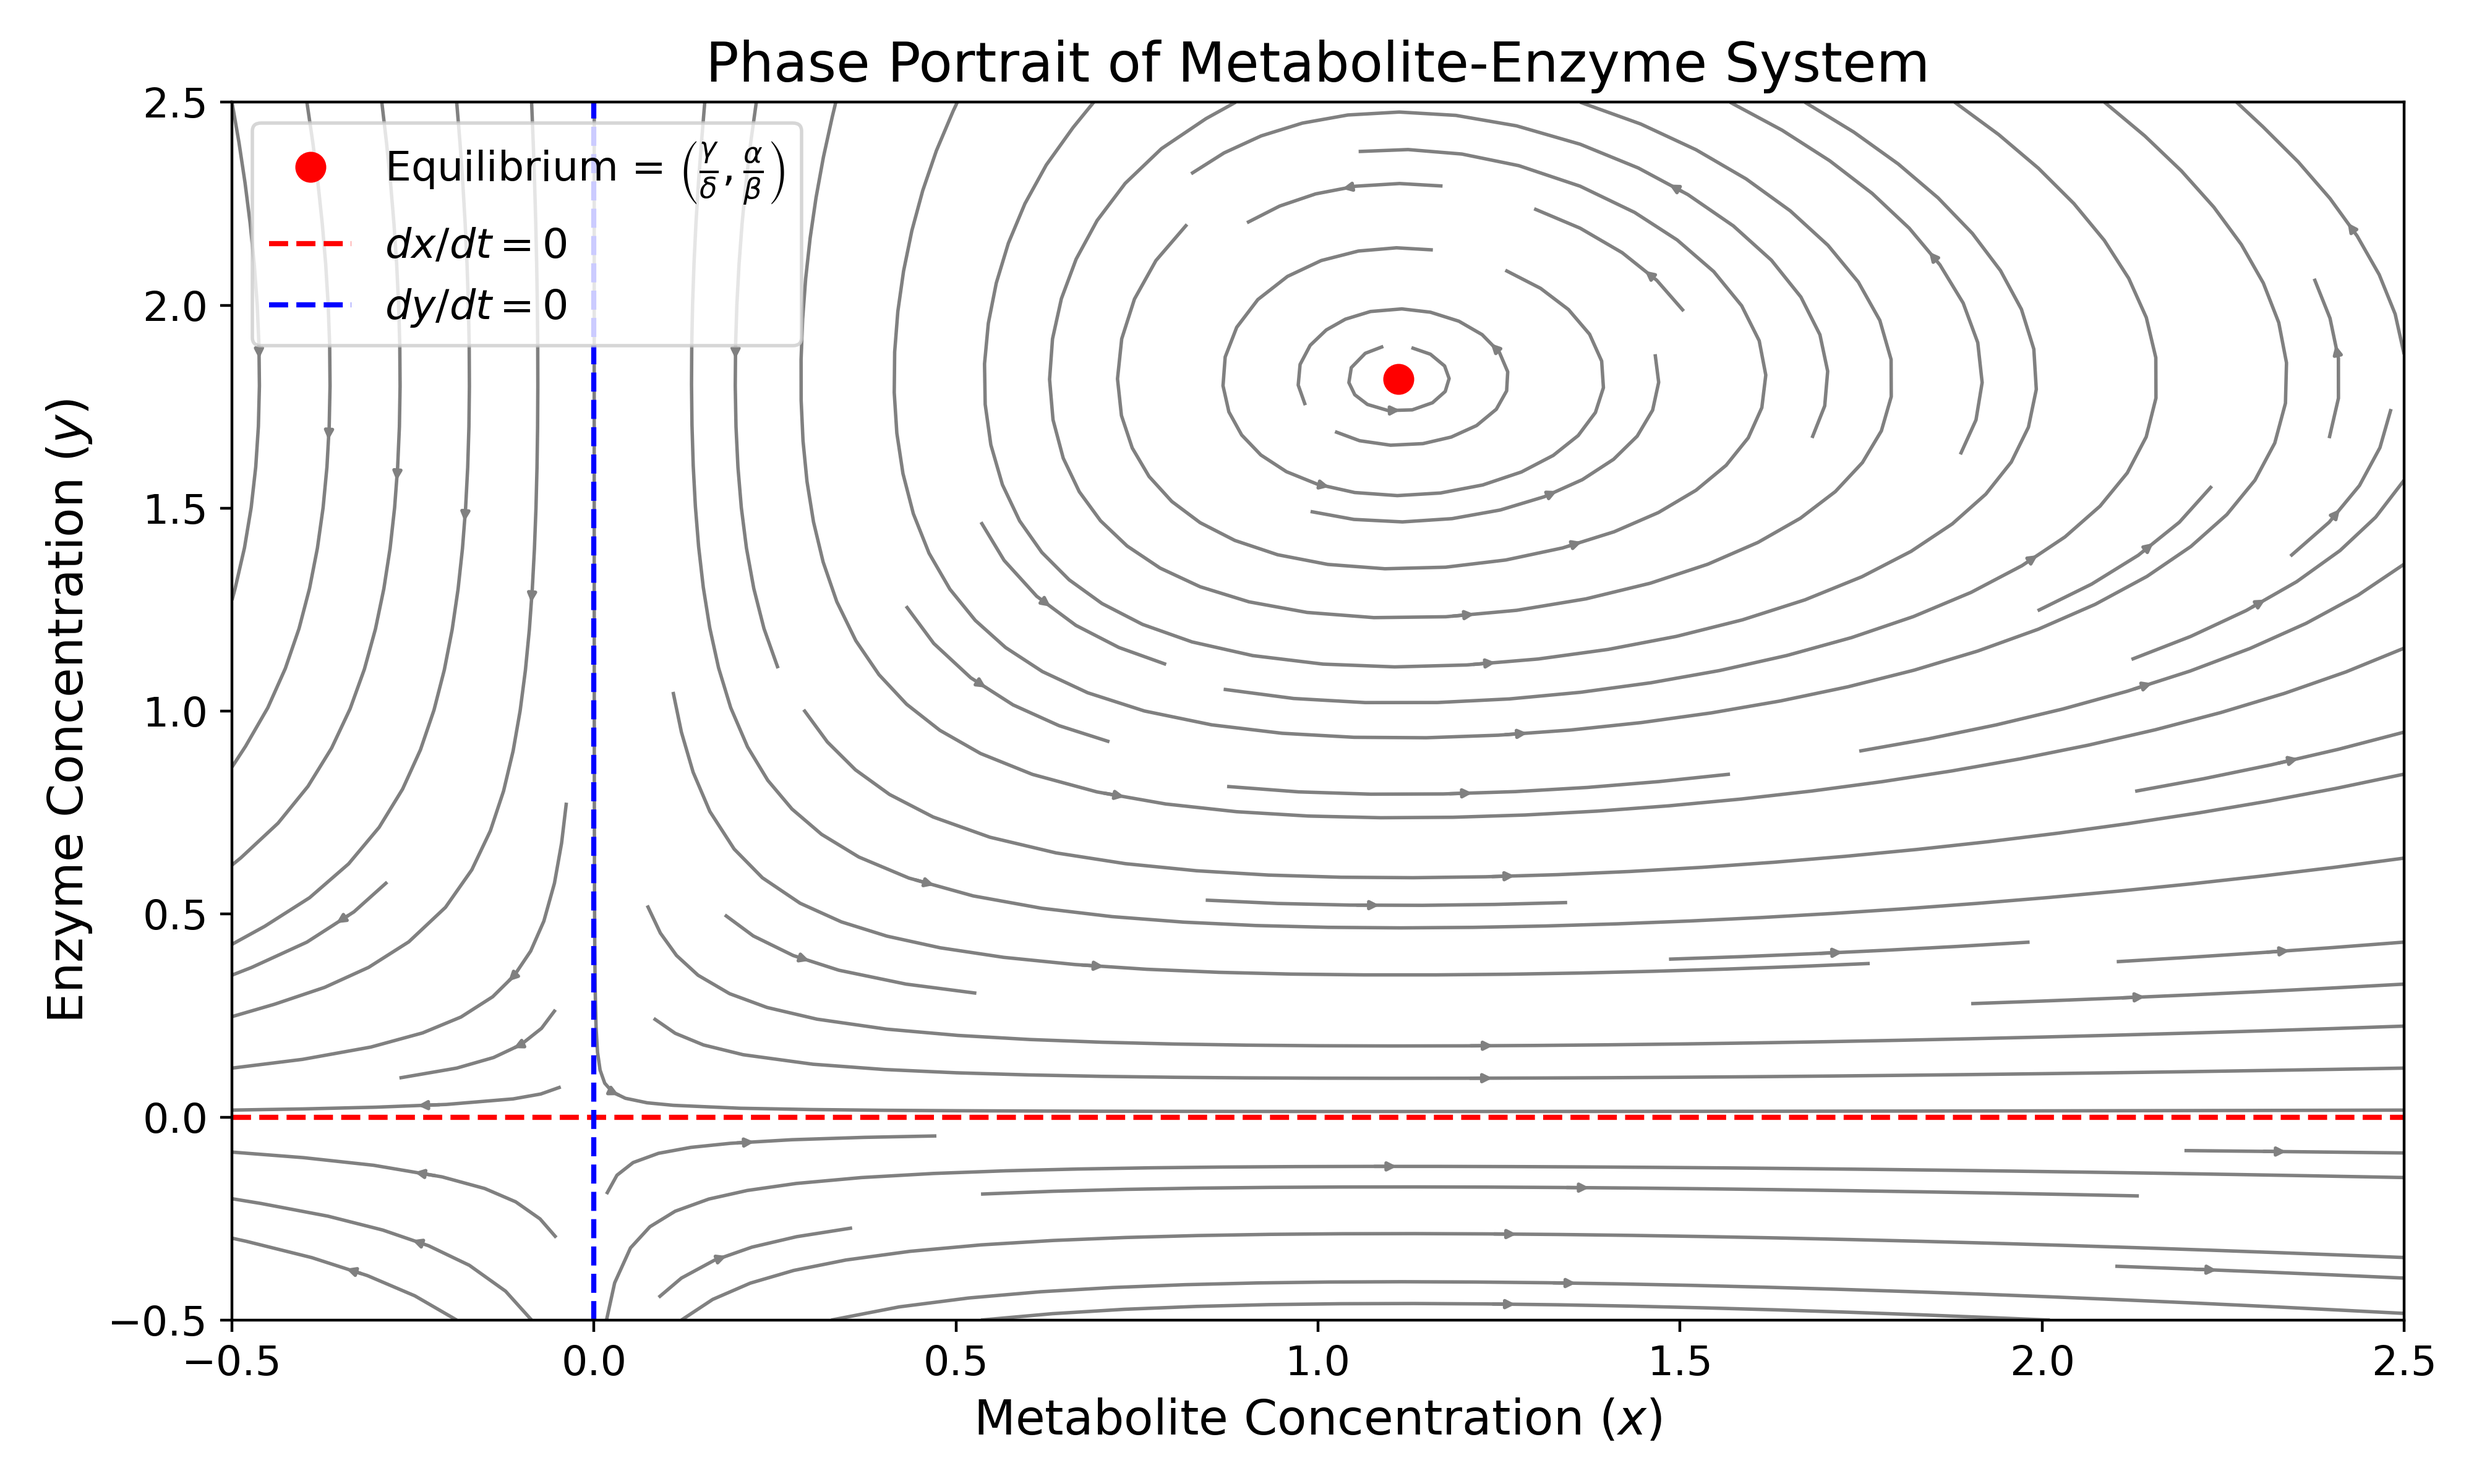
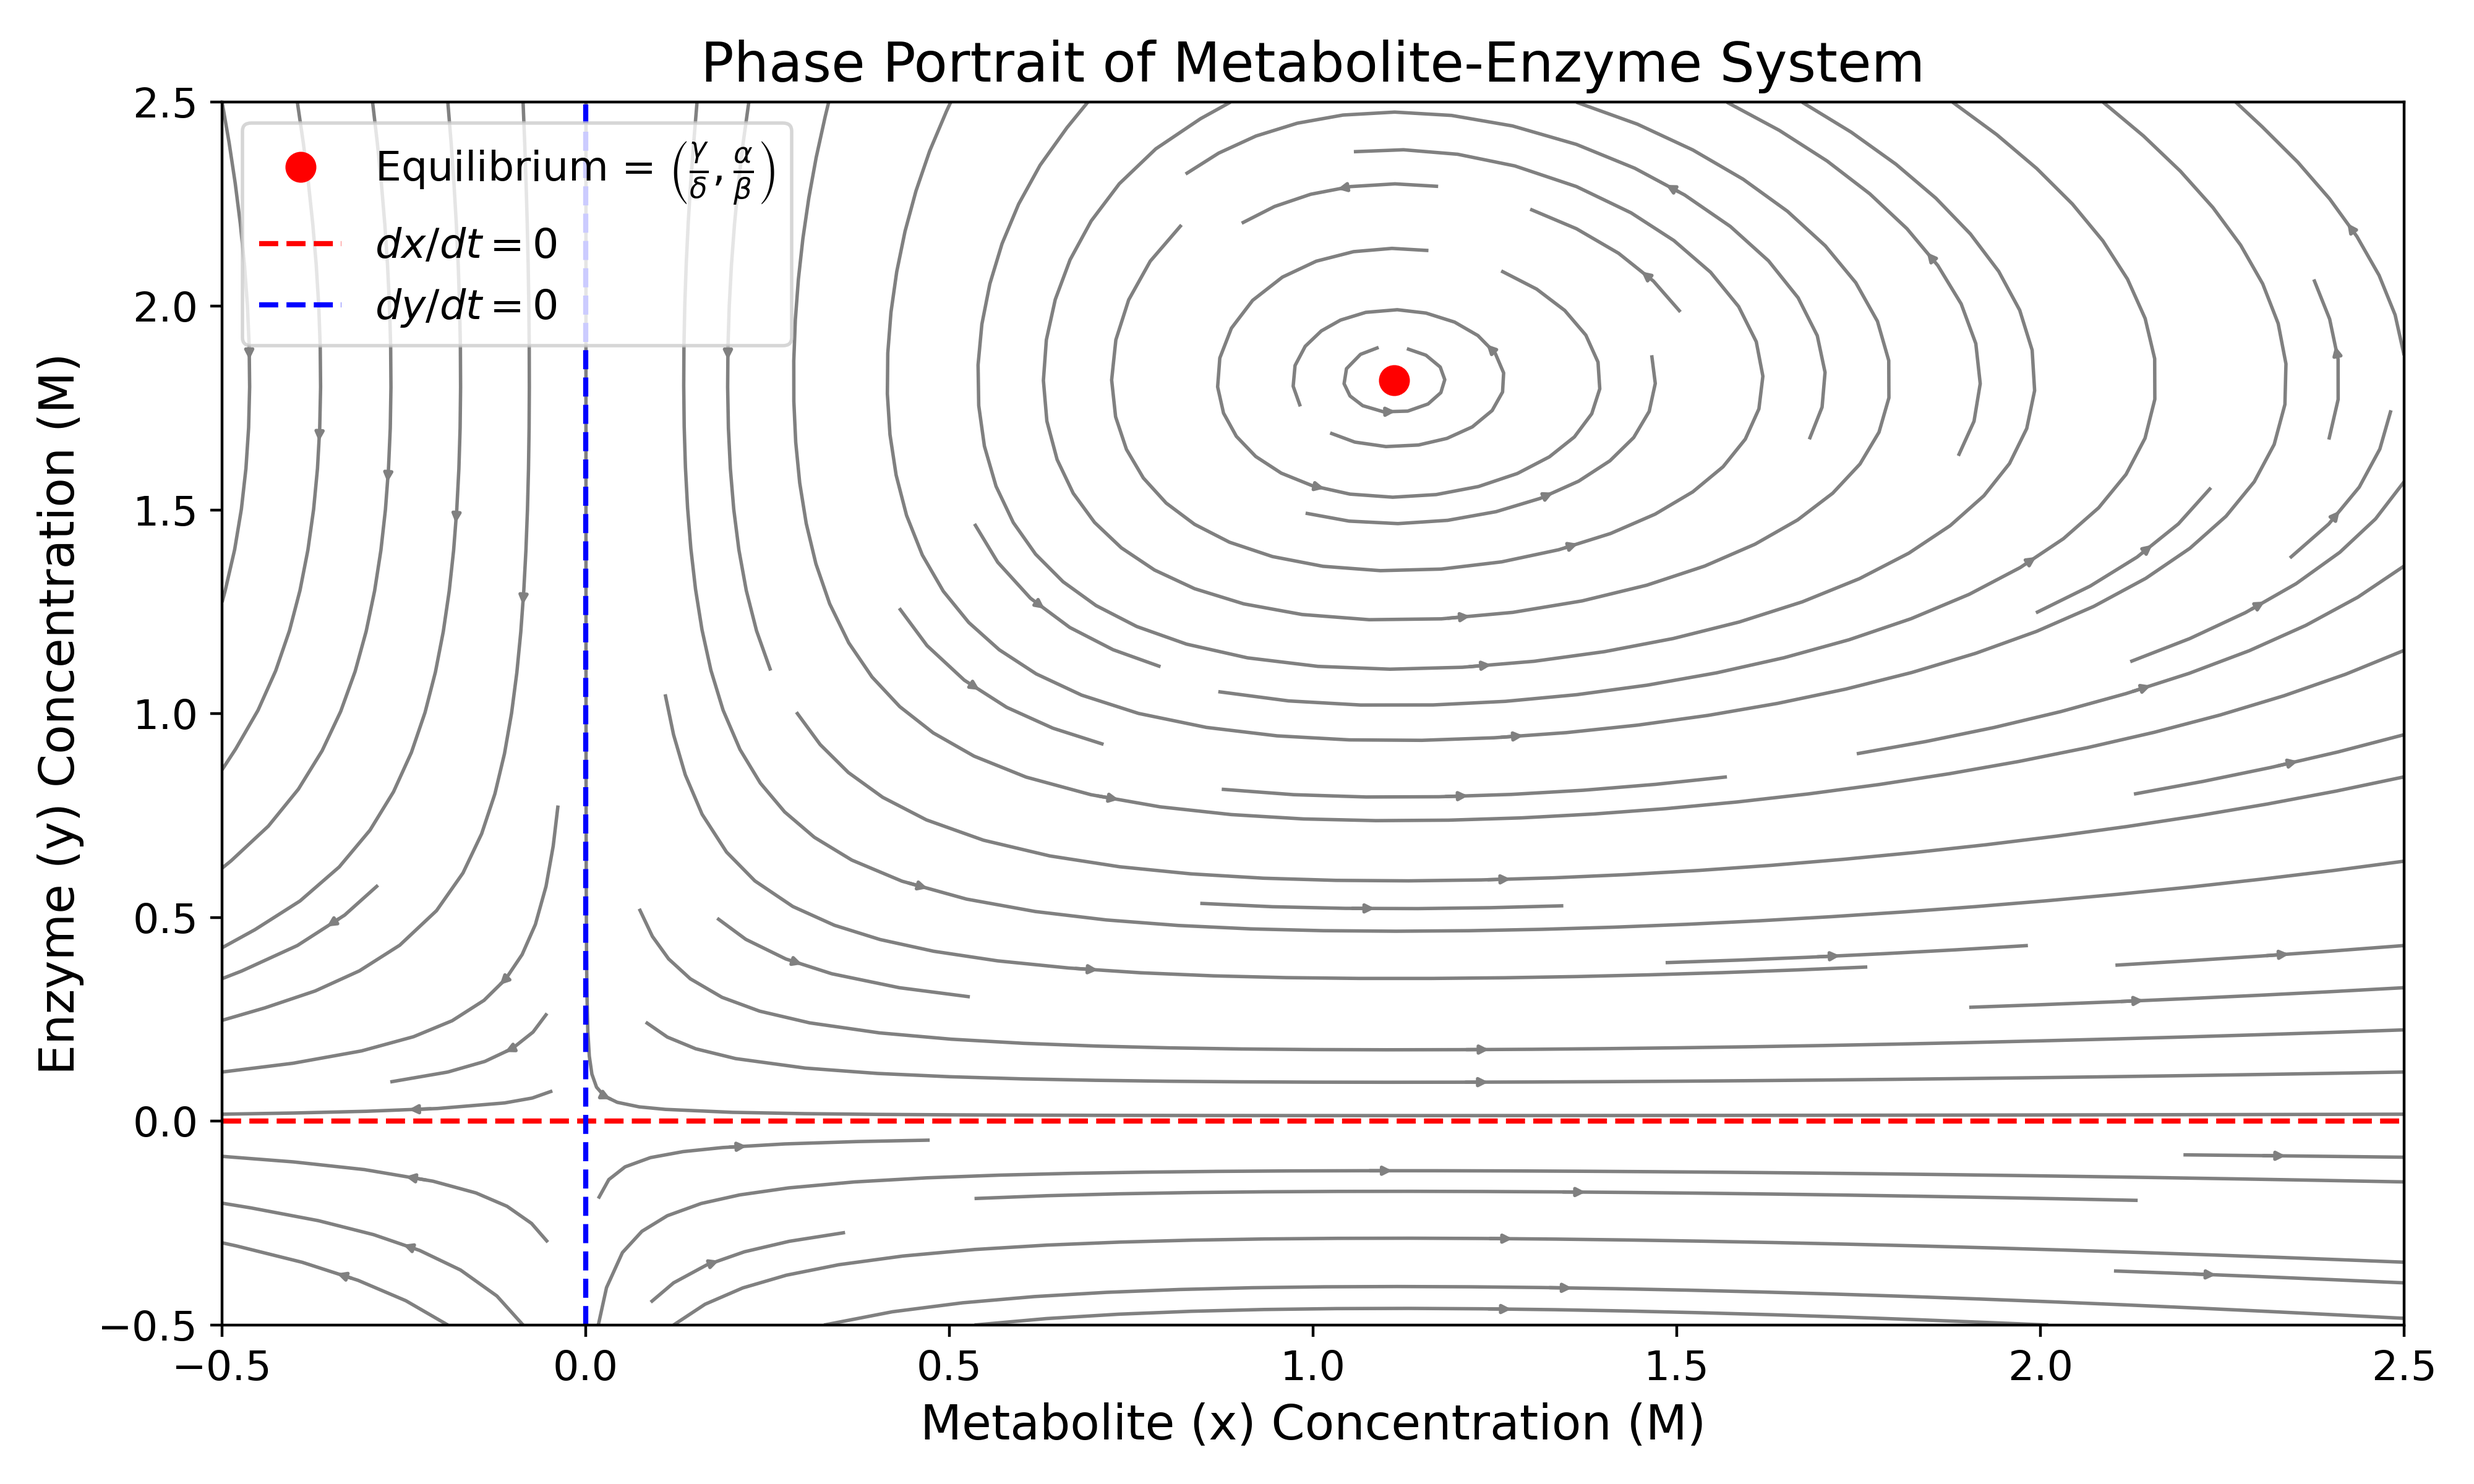
merge code files

diff --git a/assignment_2.py b/assignment_2.py
@@ -6,7 +6,8 @@ import os
 
 ######## Setup Plotting Sytle ############
 FIG_DPI = 400
-FIG_SIZE = (10, 6)
+STRD_FIG_SIZE = (10, 6)
+SQ_FIG_SIZE = (9, 9)
 
 plt.rcParams["axes.titlesize"] = 16
 plt.rcParams["axes.labelsize"] = 14
@@ -15,96 +16,101 @@ plt.rcParams["ytick.labelsize"] = 12
 plt.rcParams["legend.fontsize"] = 12
 ##########################################
 
-
-def metabolite_model(x: np.ndarray, y: np.ndarray, alpha: float, beta: float) -> np.ndarray:
+def hill_function(x: float, theta: float, n: int) -> float:
     """
-    Metabolite model function.
+    Hill function for gene regulation.
 
     Params
     ----------
-    - x (ndarray): Metabolite concentration.
-    - y (ndarray): Enzyme concentration.
-    - alpha (float): Parameter for metabolite production.
-    - beta (float): Parameter for metabolite consumption.
+    - x (float): Concentration of the molecule.
+    - theta (float): Threshold concentration.
+    - n (int): Hill coefficient.
 
     Returns
     ----------
-    - metabolite (ndarray): Rate of change of metabolite concentration.
+    - float: Value of the Hill function.
     """
-    metabolite = alpha * x - beta * x * y
-    return metabolite
+    return (x ** n) / (theta ** n + x ** n)
 
-
-def enzyme_model(x: np.ndarray, y: np.ndarray, gamma: float, delta: float) -> np.ndarray:
+def gene_regulation_ode(t: float, pop: np.ndarray, params: list) -> list:
     """
-    Enzyme model function.
-
-    Params
-    ----------
-    - x (ndarray): Metabolite concentration.
-    - y (ndarray): Enzyme concentration.
-    - gamma (float): Parameter for enzyme production.
-    - delta (float): Parameter for enzyme consumption.
-
-    Returns
-    ----------
-    - enzyme (ndarray): Rate of change of enzyme concentration.
-    """
-    enzyme = -gamma * y + delta * x * y
-    return enzyme
-
-
-def ode_model(t: float, pop: tuple, alpha: float, beta: float, gamma: float, delta: float) -> list:
-    """
-    ODE model function.
+    ODE system for gene regulation.
 
     Params
     ----------
     - t (float): Time variable.
-    - pop (tuple): Tuple containing metabolite and enzyme concentrations.
-    - alpha (float): Parameter for metabolite production.
-    - beta (float): Parameter for metabolite consumption.
-    - gamma (float): Parameter for enzyme production.
-    - delta (float): Parameter for enzyme consumption.
+    - pop (ndarray): List containing mRNA and protein concentrations.
+    - params (list): List of parameters for the model.
+
+    Returns
+    ----------
+    - list: List containing the rate of change of mRNA and protein concentrations.
+    """
+    m_A, m_B, gamma_A, gamma_B, k_PA, k_PB, theta_A, theta_B, n_A, n_B, delta_PA, delta_PB = params
+    mRNA_A, mRNA_B, Protein_A, Protein_B = pop
+
+    hill_A = hill_function(Protein_A, theta_A, n_A)
+    hill_B = hill_function(Protein_B, theta_B, n_B)
+
+    # Protein A inhibits gene B transcription
+    dmRNA_A_dt = m_A * hill_B - gamma_A * mRNA_A
+    inhibition_A = theta_A ** n_A / (theta_A ** n_A + Protein_A ** n_A)
+    # Protein B activates gene A transcription
+    dmRNA_B_dt = m_B * inhibition_A - gamma_B * mRNA_B
+    dProtein_A_dt = k_PA * mRNA_A - delta_PA * Protein_A
+    dProtein_B_dt = k_PB * mRNA_B - delta_PB * Protein_B
+
+    return [dmRNA_A_dt, dmRNA_B_dt, dProtein_A_dt, dProtein_B_dt]
+
+
+def metabolite_ode(t: float, pop: np.ndarray, params: list) -> list:
+    """
+    Metabolite ODE model function.
+
+    Params
+    ----------
+    - t (float): Time variable.
+    - pop (ndarray): List containing metabolite and enzyme concentrations.
+    - params (list): List of parameters for the model.
 
     Returns
     ----------
     - list: List containing the rate of change of metabolite and enzyme concentrations.
     """
+    alpha, beta, gamma, delta = params
     x, y = pop
-    metabolite_cst = metabolite_model(x, y, alpha, beta)
-    enzyme_cst = enzyme_model(x, y, gamma, delta)
+
+    metabolite_cst = alpha * x - beta * x * y
+    enzyme_cst = -gamma * y + delta * x * y
     return [metabolite_cst, enzyme_cst]
 
 
-def solve_ode_system(t_max: float, delta_t: float, init_pop: tuple, alpha: float, beta: float, gamma: float, delta: float) -> OdeResult:
+def solve_ode_system(model: callable, t_max: float, delta_t: float, init_pop: list, params: list) -> OdeResult:
     """
     Solve the ODE system using the Runge-Kutta method.
 
     Params
     ----------
+    - model (callable): ODE model function.
     - t_max (float): Maximum time for the simulation.
     - delta_t (float): Time step for the simulation.
-    - init_pop (tuple): Initial population of metabolite and enzyme concentrations.
-    - alpha (float): Parameter for metabolite production.
-    - beta (float): Parameter for metabolite consumption.
-    - gamma (float): Parameter for enzyme production.
-    - delta (float): Parameter for enzyme consumption.
+    - init_pop (list): Initial population of metabolite and enzyme concentrations.
+    - params (list): List of parameters for the model.
 
     Returns
     ----------
     - sol (OdeResult): Solution object containing the results of the ODE integration.
     """
-    x0, y0 = init_pop
     t_span = np.linspace(0, t_max, int(t_max / delta_t) + 1)
 
     sol = solve_ivp(
-        ode_model,
+        model,
         [0, t_max],
-        [x0, y0],
-        args=(alpha, beta, gamma, delta),
-        method="RK45",
+        init_pop,
+        args=(params,),
         t_eval=t_span,
+        rtol=1e-6,
+        atol=1e-9
     )
     return sol
 
@@ -129,6 +135,7 @@ def create_grid(min_val: float, max_val: float, num_points: int) -> tuple:
     X, Y = np.meshgrid(x, y)
     return X, Y
 
+######## Plotting Functions ############
 
 def plot_phase_portrait(X: np.ndarray, Y: np.ndarray, alpha: float, beta: float, gamma: float, delta: float, save=False) -> None:
     """
@@ -144,14 +151,14 @@ def plot_phase_portrait(X: np.ndarray, Y: np.ndarray, alpha: float, beta: float,
     - delta (float): Parameter for enzyme consumption.
     - save (bool): If True, save the plot to a file. Default is False.
     """
-    plt.figure(figsize=FIG_SIZE)
+    plt.figure(figsize=STRD_FIG_SIZE)
 
-    U = metabolite_model(X, Y, alpha, beta)
-    V = enzyme_model(X, Y, gamma, delta)
+    U = alpha * X - beta * X * Y
+    V = -gamma * Y + delta * X * Y
 
     plt.streamplot(X, Y, U, V, color="gray", linewidth=1, arrowsize=0.5)
-    plt.xlabel("Metabolite Concentration ($x$)")
-    plt.ylabel("Enzyme Concentration ($y$)")
+    plt.xlabel("Metabolite (x) Concentration (M)")
+    plt.ylabel("Enzyme (y) Concentration (M)")
     plt.plot(gamma / delta, alpha / beta, "ro", markersize=8, label=r"Equilibrium = $\left(\frac{\gamma}{\delta}, \frac{\alpha}{\beta}\right)$")
     print(f"Equilibrium point: ({gamma / delta:.2f}, {alpha / beta:.2f})")
     plt.axhline(0, color="r", linestyle="--", label="$dx/dt=0$")
@@ -179,7 +186,7 @@ def plot_ode_solution(sol: OdeResult, save=False) -> None:
     - sol (OdeResult): Solution object from solve_ivp.
     - save (bool): If True, save the plot to a file.
     """
-    plt.figure(figsize=FIG_SIZE)
+    plt.figure(figsize=STRD_FIG_SIZE)
 
     x = sol.y[0]
     y = sol.y[1]
@@ -187,10 +194,11 @@ def plot_ode_solution(sol: OdeResult, save=False) -> None:
 
     plt.plot(t, x, label="Metabolite")
     plt.plot(t, y, label="Enzyme")
-    plt.xlabel("Time")
-    plt.ylabel("Concentration")
+    plt.xlabel('Time (s)')
+    plt.ylabel('Concentration (M)')
     plt.title("Metabolite and Enzyme Concentrations Over Time")
     plt.legend()
+    plt.grid()
 
     plt.tight_layout()
     if save:
@@ -201,25 +209,133 @@ def plot_ode_solution(sol: OdeResult, save=False) -> None:
     else:
         plt.show()
 
+def plot_mRNA_concentrations_solution(sol: OdeResult, save=False) -> None:
+    """
+    Plot the solution of the ODE system.
 
-def main():
+    Params
+    ----------
+    - sol (OdeResult): Solution object from solve_ivp.
+    - save (bool): If True, save the plot to a file.
+    """
+    plt.figure(figsize=STRD_FIG_SIZE)
+
+    mRNA_A = sol.y[0]
+    mRNA_B = sol.y[1]
+    t = sol.t
+
+    plt.plot(t, mRNA_A, 'b-', label='mRNA A')
+    plt.plot(t, mRNA_B, 'r-', label='mRNA B')
+    plt.xlabel('Time (s)')
+    plt.ylabel('Concentration (M)')
+    plt.title('Time Evolution of mRNA A and mRNA B Concentrations')
+    plt.legend()
+    plt.grid()
+
+    plt.tight_layout()
+    if save:
+        if not os.path.exists("results"):
+            os.makedirs("results")
+        plt.savefig("results/protein_phase_plane.png", dpi=FIG_DPI)
+        plt.close()
+    else:
+        plt.show()
+
+def plot_protein_dynamics_solution(sol: OdeResult, save=False) -> None:
+    """
+    Plot the solution of the ODE system.
+
+    Params
+    ----------
+    - sol (OdeResult): Solution object from solve_ivp.
+    - save (bool): If True, save the plot to a file.
+    """
+    plt.figure(figsize=SQ_FIG_SIZE)
+
+    Protein_A = sol.y[2]
+    Protein_B = sol.y[3]
+    t = sol.t
+
+    plt.plot(Protein_A, Protein_B, 'g-')
+    plt.plot(Protein_A[0], Protein_B[0], 'go', label='Start')  # Start point
+    plt.plot(Protein_A[-1], Protein_B[-1], 'ro', label='End')  # End point
+    plt.xlabel('Protein A Concentration (M)')
+    plt.ylabel('Protein B Concentration (M)')
+    plt.title('Phase-Plane Plot of Protein A vs Protein B')
+    plt.title("Metabolite and Enzyme Concentrations Over Time")
+    plt.legend()
+    plt.grid()
+
+    plt.tight_layout()
+    if save:
+        if not os.path.exists("results"):
+            os.makedirs("results")
+        plt.savefig("results/protein_phase_plane.png", dpi=FIG_DPI)
+        plt.close()
+    else:
+        plt.show()
+
+###########################################
+
+def main(SAVING: bool = False) -> None:
     ################### Question 1 ###################
+    params_dict = {
+        "m_A": 2.35,
+        "m_B": 2.35,
+        "gamma_A": 1,
+        "gamma_B": 1,
+        "k_PA": 1,
+        "k_PB": 1,
+        "theta_A": 0.21,
+        "theta_B": 0.21,
+        "n_A": 3,
+        "n_B": 3,
+        "delta_PA": 1,
+        "delta_PB": 1
+    }
+    init_pop = {
+        "mRNA_A": 0.8,
+        "mRNA_B": 0.8,
+        "Protein_A": 0.8,
+        "Protein_B": 0.8
+    }
+    
+    sol = solve_ode_system(
+        model=gene_regulation_ode,
+        t_max=100,
+        delta_t=0.1,
+        init_pop=(list(init_pop.values())),
+        params=(list(params_dict.values()))
+    )
+    plot_mRNA_concentrations_solution(sol, save=SAVING)
+    plot_protein_dynamics_solution(sol, save=SAVING)    
+
 
     ################### Question 2 ###################
+    params_dict = {
+        "alpha": 2,
+        "beta": 1.1,
+        "gamma": 1,
+        "delta": 0.9,
+    }
+    init_pop = {
+        "metabolite": 1,
+        "enzyme": 0.5
+    }
+
     sol = solve_ode_system(
+        model=metabolite_ode,
         t_max=10,
         delta_t=0.1,
-        init_pop=(1, 0.5),
-        alpha=2,
-        beta=1.1,
-        gamma=1,
-        delta=0.9,
+        init_pop=(list(init_pop.values())),
+        params=(list(params_dict.values()))
     )
-    plot_ode_solution(sol)
+    plot_ode_solution(sol, save=SAVING)
 
+    X, Y = create_grid(-1, 3, 20)
     X, Y = create_grid(-0.5, 2.5, 20)
-    plot_phase_portrait(X, Y, alpha=2, beta=1.1, gamma=1, delta=0.9)
+    plot_phase_portrait(X, Y, **params_dict, save=SAVING)
 
 
 if __name__ == "__main__":
-    main()
+    main(True)
